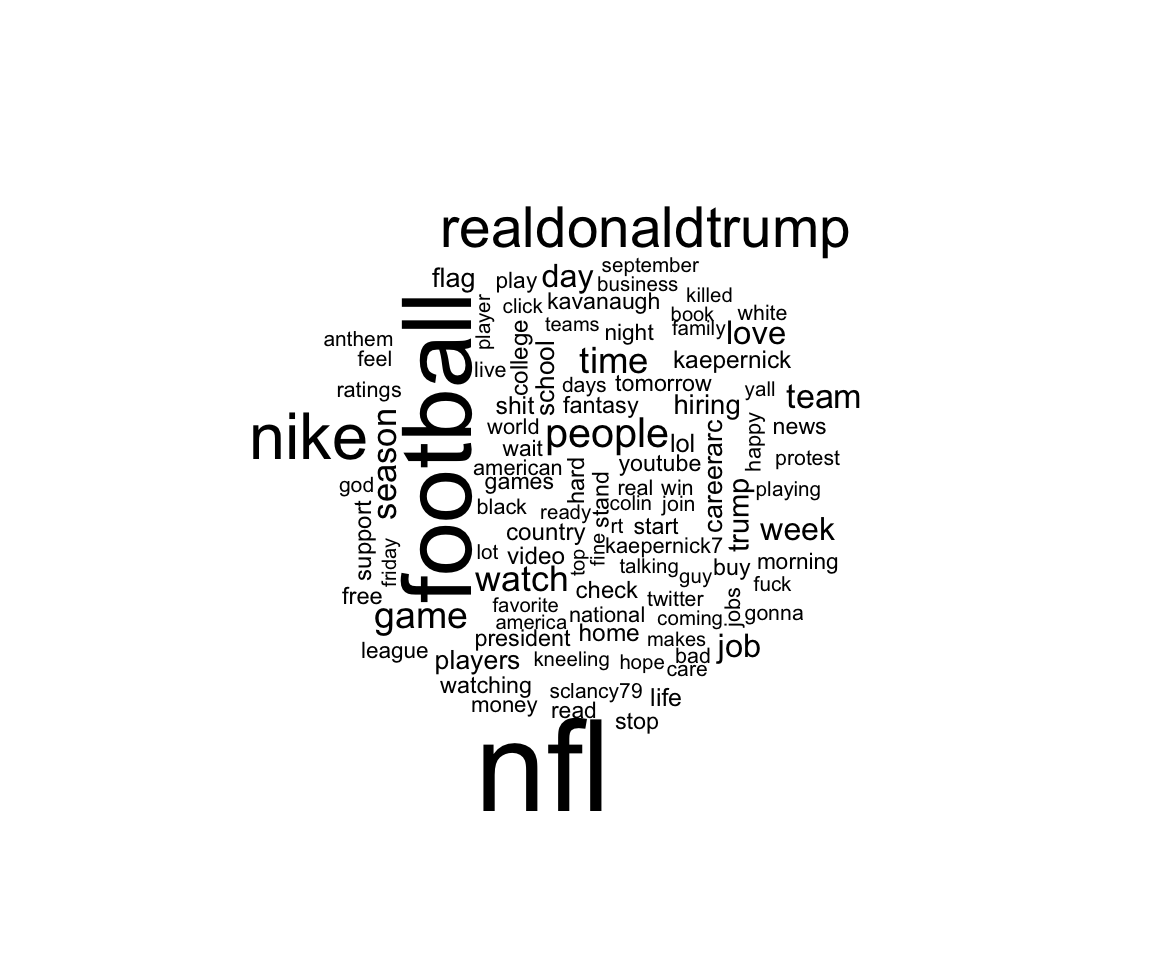
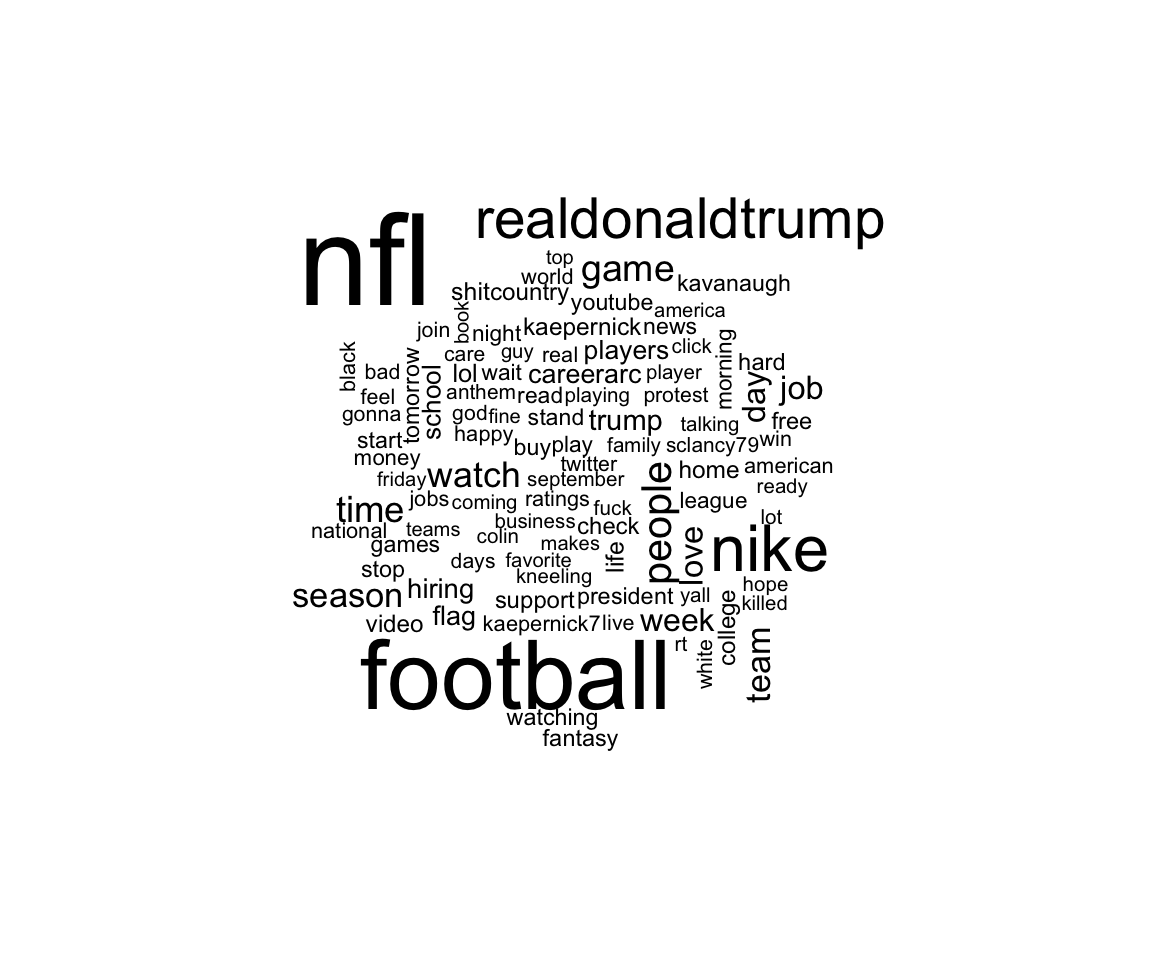
first commit

Changed region(s): [[0.2188, 0.1875, 0.7812, 0.8438]]

diff --git a/portfolio/textminingr/index.html b/portfolio/textminingr/index.html
@@ -132,15 +132,9 @@
 <h1>Setting up an API</h1>
 <p>The first thing to do with R when getting ready to do Twitter mining is to set up your credentials. I won’t go through this process right now, but it is outlined <a href="https://github.com/mkearney/rtweet">here</a>. You need to first become a Twitter developer and create an app. It only takes a few moments.</p>
 <p>There are a couple of different types of flows you can work with, depending on what your question is. For example, if you want to look at word counts and frequencies, your workflow will look something like this:</p>
-<div class="figure">
-<img src="/img/tidyflow-ch-1.png" />
-
-</div>
+<p><img src="/img/tidyflow-ch-1.png" />{95%}</p>
 <p>If you want to do sentiment analysis, your workflow will look something like this:</p>
-<div class="figure">
-<img src="/img/tidyflow-ch-2.png" />
-
-</div>
+<p><img src="/img/tidyflow-ch-2.png" />{95%}</p>
 </div>
 <div id="mining-and-processing" class="section level1">
 <h1>Mining and Processing</h1>
@@ -419,10 +413,8 @@ sports_sentiments_bing &lt;- timelines_frequency %&gt;%
   count(word) %&gt;%
   with(wordcloud(word, n, max.words = 100))</code></pre>
 <pre><code>## Joining, by = &quot;word&quot;</code></pre>
-<pre><code>## Warning in wordcloud(word, n, max.words = 100): premierleague could not be
-## fit on page. It will not be plotted.</code></pre>
-<pre><code>## Warning in wordcloud(word, n, max.words = 100): championship could not be
-## fit on page. It will not be plotted.</code></pre>
+<pre><code>## Warning in wordcloud(word, n, max.words = 100): report could not be fit on
+## page. It will not be plotted.</code></pre>
 <p><img src="/portfolio/TextMiningR_files/figure-html/unnamed-chunk-14-1.png" width="576" /></p>
 </div>
 </div>
